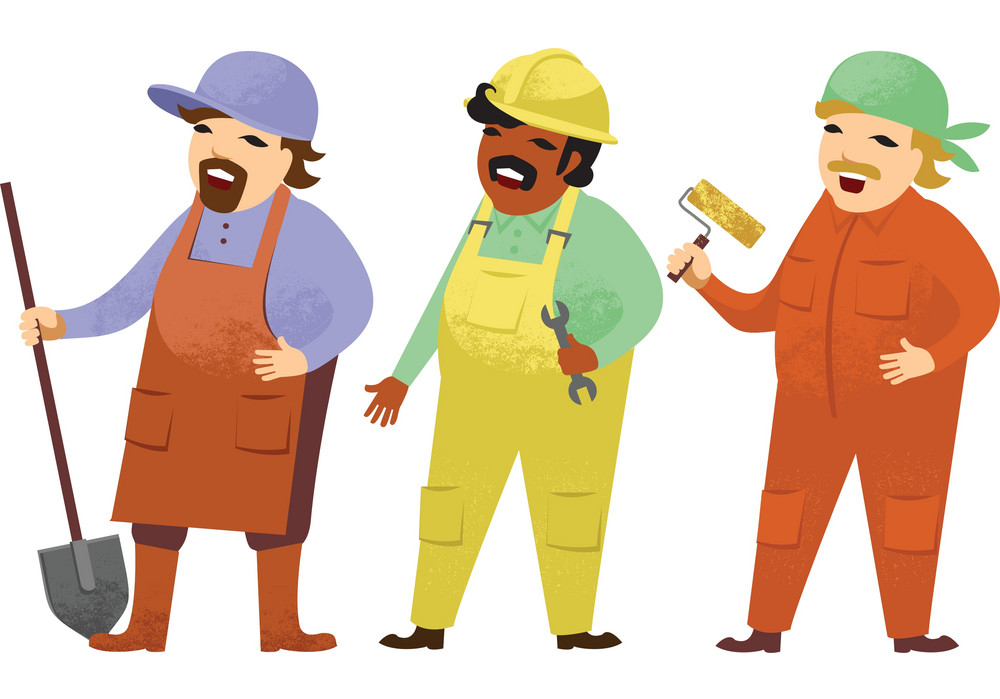
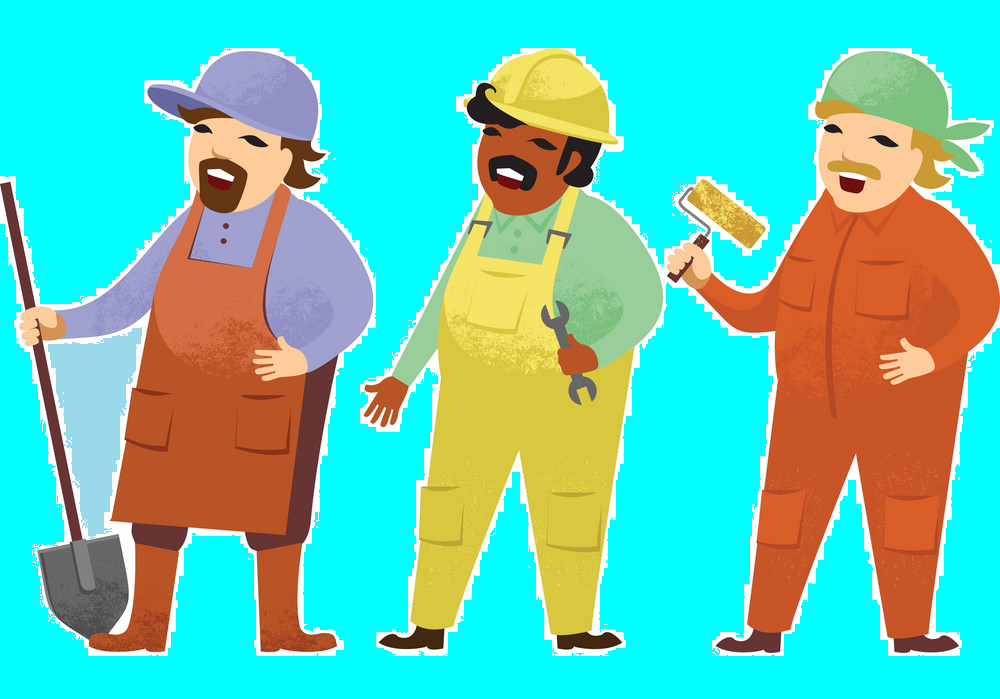
Home page css

diff --git a/public/stylesheets/profile.css b/public/stylesheets/profile.css
@@ -2,6 +2,7 @@ html, body {
   margin: 0;
   padding: 0;
   height: 100%;
+  background-color: aqua;
 }
 
 .pro {
@@ -10,8 +11,18 @@ html, body {
   height: 100%;
 }
 
+.home:hover{
+   background-color: aqua;
+   padding: 3px 10px;
+}
+
+.about:hover{
+  background-color: aqua;
+  padding: 3px 10px;
+}
+
 .navbar {
-  background-color: white;
+  background-color: wheat;
   color: black;
   padding: 2px;
   display: flex;
@@ -33,6 +44,7 @@ html, body {
 
 .nav-menu li {
   margin-right: 20px;
+  padding: 3px 10px;
   cursor: pointer;
 }
 
@@ -71,7 +83,7 @@ html, body {
   }
 
   .nav-menu, .nav-login-cart {
-      margin-top: 10px;
+      margin-top: 5px;
   }
 
   .nav-menu li, .nav-login-cart a {
@@ -79,7 +91,7 @@ html, body {
   }
 
   .logoutBut {
-      margin-top: 10px;
+      margin-top: 5px;
   }
 }
 
@@ -99,6 +111,10 @@ html, body {
    color: black;
 }
 
+span:hover{
+  background-color: rgb(194, 184, 43);
+  font-weight: 700;
+}
 
 .image-container {
   width: 30%;
@@ -120,6 +136,8 @@ html, body {
   align-items: center;
   flex: 1;
 }
+
+
 
 .heading {
   max-width: 50%;

diff --git a/public/stylesheets/customer.css b/public/stylesheets/customer.css
@@ -1,4 +1,9 @@
+body{
+  background-color: aqua;
+}
+
 .kaarigar {
+  background-color: wheat;
     display: flex;
     align-items: flex-start;
     border: 2px solid black;
